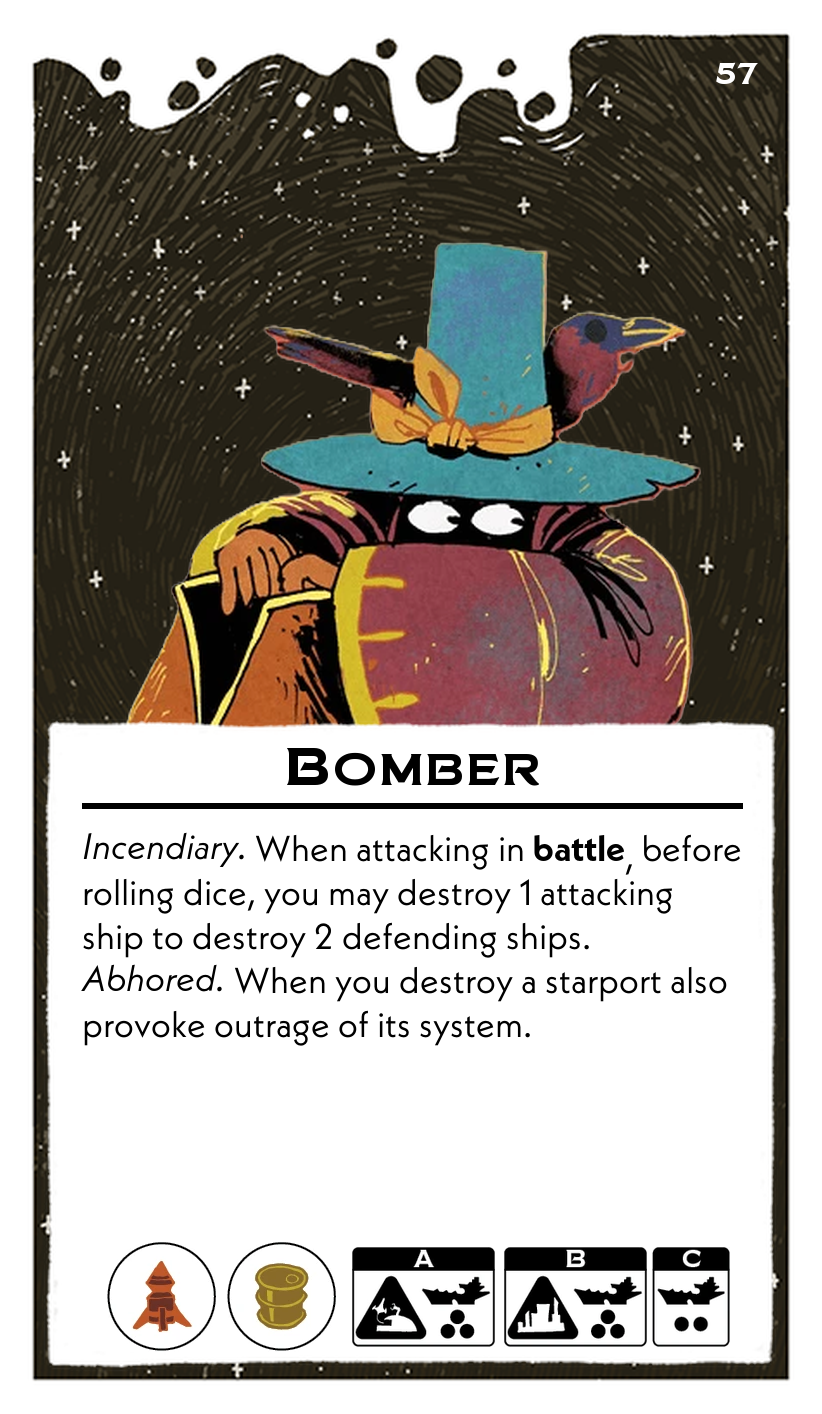
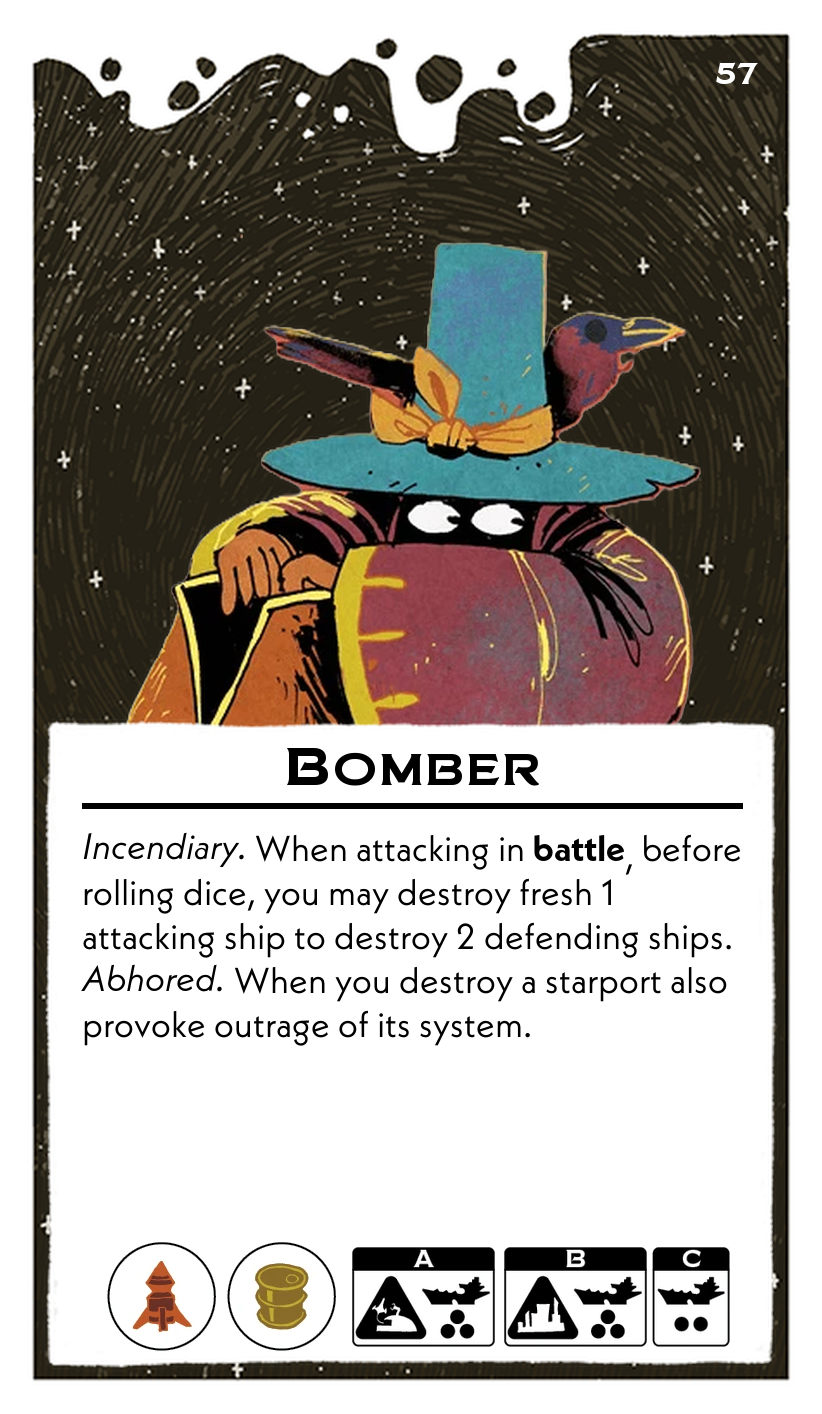
bomber

Changed region(s): [[0.0912, 0.6223, 0.882, 0.6846]]

diff --git a/scripts/leadersFormatted.py b/scripts/leadersFormatted.py
@@ -870,7 +870,7 @@ leaders = [
     {
         "name": "Bomber",
         "abilities": (
-            "*Incendiary.* When attacking in **battle**, before rolling dice, you may destroy 1 attacking ship to destroy 2 defending ships.\n"
+            "*Incendiary.* When attacking in **battle**, before rolling dice, you may destroy fresh 1 attacking ship to destroy 2 defending ships.\n"
             "*Abhored.* When you destroy a starport also provoke outrage of its system."
         ),
         "resources": ["Weapon", "Fuel"],
